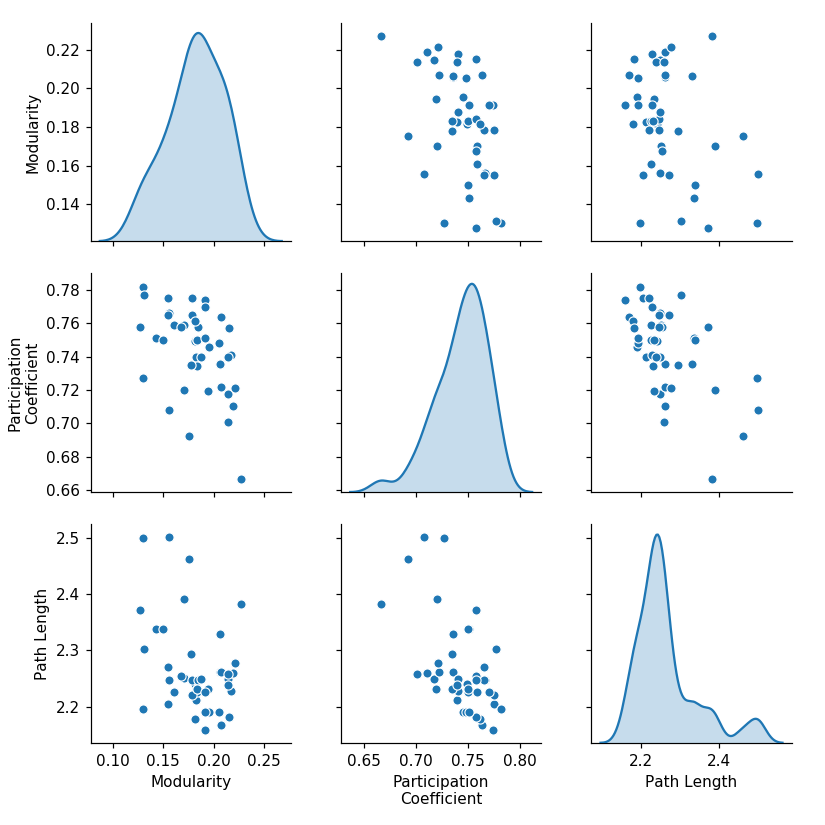
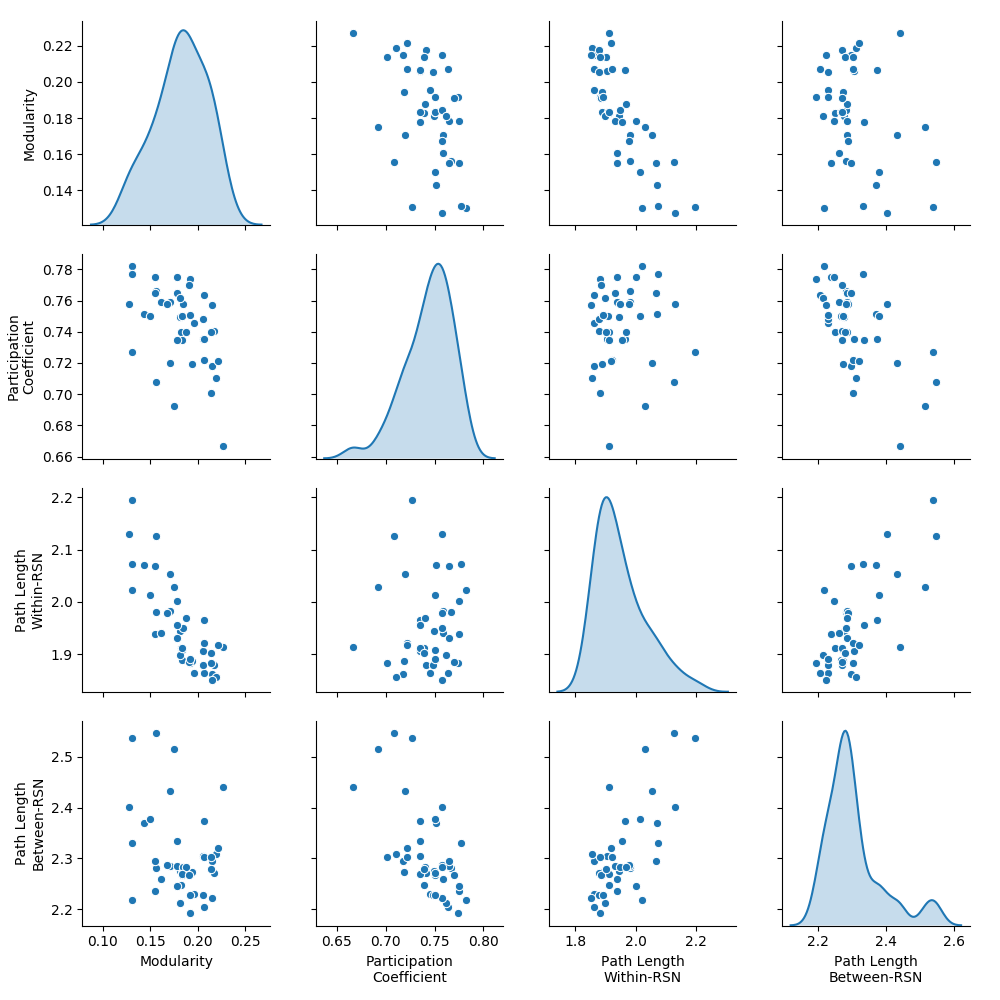
Update figures and results text

diff --git a/chapters/ch2.tex b/chapters/ch2.tex
@@ -64,6 +64,19 @@ Connectivity analysis was performed in the CONN toolbox \citep{WhitfieldGabrieli
 
 The metrics of interest were network \textit{modularity}, \textit{participation coefficient} and \textit{path length}. Modularity is high in networks where nodes within the same RSN are highly connected to each other but not elsewhere. The participation coefficient, on the other hand, is high when many nodes are connected to several different RSNs. Both of these metrics relate to the integration of information between RSNs. Path length describes the distance between any two nodes on the graph. This was calculated between every node, then summed up by RSN to create a measure of network distance. These properties, and their changes within our task, were investigated at the level of connectomes, RSNs and nodes. 
 
+First, we establish the validity of the parcellation for evaluting network properties in this sample. At rest, we expect to see high modularity (greater than 0.1), low participation (less than 0.9), and a lower path length within RSNs than between them. We also expect to see moderate-sized correlations between measures, since each is measuring an aspect of network architecture related to distance between nodes.  
+
+Next, we break each global measure down by RSN to determine how sub-systems differ in their network roles. For modularity, we report the total modularity contribution for each network. For participation coefficient and path length, we report the mean value within each network. We also investigate the measures obtained across the whole range of network-forming thresholds (retaining the top 2 to 10 percent of connections). We expect to see changes in the measures across thresholds, but ranked in a relatively stable order among the different RSNs. 
+
+To determine the relationship between network measures and individual performance on cognitive assessments, we input each global metric into a general linear model with the Test of Word Reading Efficiency (TOWRE, total word efficiency (TWE) standard score). Models containing measures of mean framewise-displacement (motion) and the WASI Vocabulary measure were also assesed to ensure that effects were not driven by motion confounds or global measures of cognitive skill. We also examined whether there were differences in the modularity relationship between TOWRE subtests (sight word efficiency (SWE) and phonemic decoding efficiency (PDE)). 
+
+To assess whether there was an RSN-level trend in the modularity-to-reading relationship, post-hoc analyses comparing network-level modularity values to TOWRE scores were also investigated. For each node, a correlation value was calculated between its modularity contribution and TOWRE TWE scores. To evaluate significance, RSN correlations were compared to a bootstrapped distribution of 5000 correlation values generated by sampling and totaling the modularities for a random set of nodes equal in size to the selected RSN. (For example, adding 31 random nodes for comparison to the visual network.)
+
+
+\section{Results} 
+
+Of the 52 subjects who completed resting-state fMRI scans, 44 met the scan quality criteria for inclusion. Connectome parcellations at the 5 percent threshold exhibited small-world properties: the mean modularity value was 0.264 (SD = 0.037), and the mean participation coefficient was 0.599 (0.052). Furthermore, the path length within RSNs was significantly lower than those between: within-community nodes took an average of 2.49 (0.141) steps to reach each other, whereas between-community nodes took an average of 3.06 (0.207) steps ($p$ \textless 0.001, two-sample $t$-test). Furthermore, a comparison of each metric against the others shows that, while there is overlap between the measures at the global level, there is substantial variability as well (Table \ref{fig:ch2-global-graph-theory-descriptions}).
+
 \begin{figure}[t]
     \centering
     \includegraphics[width=5in]{ch2-global-graph-theory-descriptions}
@@ -71,9 +84,13 @@ The metrics of interest were network \textit{modularity}, \textit{participation 
     \label{fig:ch2-global-graph-theory-descriptions}
 \end{figure}
 
-First, we establish the validity of the parcellation for evaluting network properties in this sample. At rest, we expect to see high modularity (greater than 0.1), low participation (less than 0.9), and a lower path length within RSNs than between them. We also expect to see moderate-sized correlations between measures, since each is measuring an aspect of network architecture related to distance between nodes.  
+Comparing the contributions of each RSN to these global metrics highlights important differences between them.
+- Visual, somatomotor, default mode and front-porietal networks were highest in modularity. 
+- the FPN was interesting in theat it had higher modularity, moderate participation coefficient and lower path length
+- loosening the threshold decreased modularity, increased participation coefficient and decreased path length.
+- 5 percent is optimal for differences.
+% try tsplot on bottom
 
-Next, we break each global measure down by RSN to determine how sub-systems differ in their network roles. For modularity, we report the total modularity contribution for each network. For participation coefficient and path length, we report the mean value within each network. We also investigate the measures obtained across the whole range of network-forming thresholds (retaining the top 2 to 10 percent of connections). We expect to see changes in the measures across thresholds, but a relatively stable rank order among the different RSNs. 
 
 \begin{figure}[t]
     \centering
@@ -82,9 +99,7 @@ Next, we break each global measure down by RSN to determine how sub-systems diff
     \label{fig:ch2-network-graph-theory-descriptions}
 \end{figure}
 
-To determine the relationship between network measures and individual performance on cognitive assessments, we input each global metric into a general linear model with the Test of Word Reading Efficiency (TOWRE, total word efficiency standard score). Models containing measures of mean framewise-displacement (motion) and the WASI Vocabulary measure were also assesed to ensure that effects were not driven by motion confounds or global measures of cognitive skill. We also examined whether there were differences in the modularity relationship between TOWRE subtests (sight word efficiency (SWE) and phonemic decoding efficiency (PDE)).
-
-\begin{table}
+\begin{table}[t]
     \renewcommand{\tabcolsep}{0.09cm}
     \centering
     \input{tables/ch2-global-glm-results.tex}
@@ -99,8 +114,6 @@ To determine the relationship between network measures and individual performanc
     \label{fig:ch2-global-glm-covariates-thresh}
 \end{figure}
 
-To assess whether there was an RSN-level trend in the modularity-to-reading relationship, post-hoc analyses comparing network-level modularity values to TOWRE scores were also investigated. For each RSN, a regression Z-statistic was calculated between its modularity contribution and TOWRE scores. This was then compared to a bootstrapped distribution of modularity values for networks of equal size (n = 5000). 
-
 \begin{figure}[t]
     \centering
     \includegraphics[height=3in]{ch2-rsn-node-modularity-corr}
@@ -108,11 +121,6 @@ To assess whether there was an RSN-level trend in the modularity-to-reading rela
     \label{fig:ch2-rsn-node-modularity-corr}
 \end{figure}
 
-\section{Results} 
-
-Of the 52 scans collected, 44 met the motion quality criteria for inclusion. 
-
-We demonstrate that the relative position of each each these distribution of these measures across our sample at a threshold retaining the top 10 percent of connections, and across multiple thresholds. 
 
 Individual differences in global modularity were predictive of TOWRE - Total Word Efficiency standard scores. Modularity had a significant positive relationship with out-of-scanner reading metrics (for all subjects: $r = 0.299$, $p = 0.013$). This effect was also significant when data was analyzed separately by grade ($r_{G3} = 0.333$, $p = 0.014$; $r_{G4} = 0.359$, $p = 0.012$). The two subtests that constitute the TOWRE both showed a positive relationship with global modularity, as well ($r_{PDE} = 0.314$, $p = 0.009$; $r_{SWE} = 0.251$, $p = 0.039$). 
 

diff --git a/tables/ch2-global-glm-results.tex b/tables/ch2-global-glm-results.tex
@@ -1,4 +1,4 @@
-\begin{tabular}{lcc}
+\begin{tabular}{lcl}
 \toprule
 Predictor   &  $Z$-statistic &  $p$-value \\
 \midrule
@@ -7,14 +7,6 @@ Predictor   &  $Z$-statistic &  $p$-value \\
     \hspace{5pt}Modularity &  2.536 &  0.011* \\
     \hspace{5pt}Part. Coeff. & -0.339 &  0.505 \\
     \hspace{5pt}Path Length & -0.763 &  0.484 \\
-\textit{Phonemic Decoding Efficiency} & & \\
-    \hspace{5pt}Modularity  &  2.138 &  0.033* \\
-    \hspace{5pt}Part. Coeff. & -0.268 &  0.479 \\
-    \hspace{5pt}Path Length & -0.697 &  0.561 \\
-\textit{Sight Word Efficiency} & & \\
-    \hspace{5pt}Modularity  &  2.779 &  0.006** \\
-    \hspace{5pt}Part. Coeff. & -0.418 &  0.547 \\
-    \hspace{5pt}Path Length & -0.750 &  0.459 \\
 \textit{Total Word Efficiency (controlling motion)} & & \\
     \hspace{5pt}Modularity  &  1.991 &  0.047* \\
     \hspace{5pt}Part. Coeff. &  0.089 &  0.600 \\
@@ -23,5 +15,14 @@ Predictor   &  $Z$-statistic &  $p$-value \\
     \hspace{5pt}Modularity  &  2.390 &  0.017* \\
     \hspace{5pt}Part. Coeff. &  0.167 &  0.693 \\
     \hspace{5pt}Path Length & -1.074 &  0.288 \\
+\textit{Phonemic Decoding Efficiency} & & \\
+    \hspace{5pt}Modularity  &  2.138 &  0.033* \\
+    \hspace{5pt}Part. Coeff. & -0.268 &  0.479 \\
+    \hspace{5pt}Path Length & -0.697 &  0.561 \\
+\textit{Sight Word Efficiency} & & \\
+    \hspace{5pt}Modularity  &  2.779 &  0.006** \\
+    \hspace{5pt}Part. Coeff. & -0.418 &  0.547 \\
+    \hspace{5pt}Path Length & -0.750 &  0.459 \\
+
 \bottomrule
 \end{tabular}
